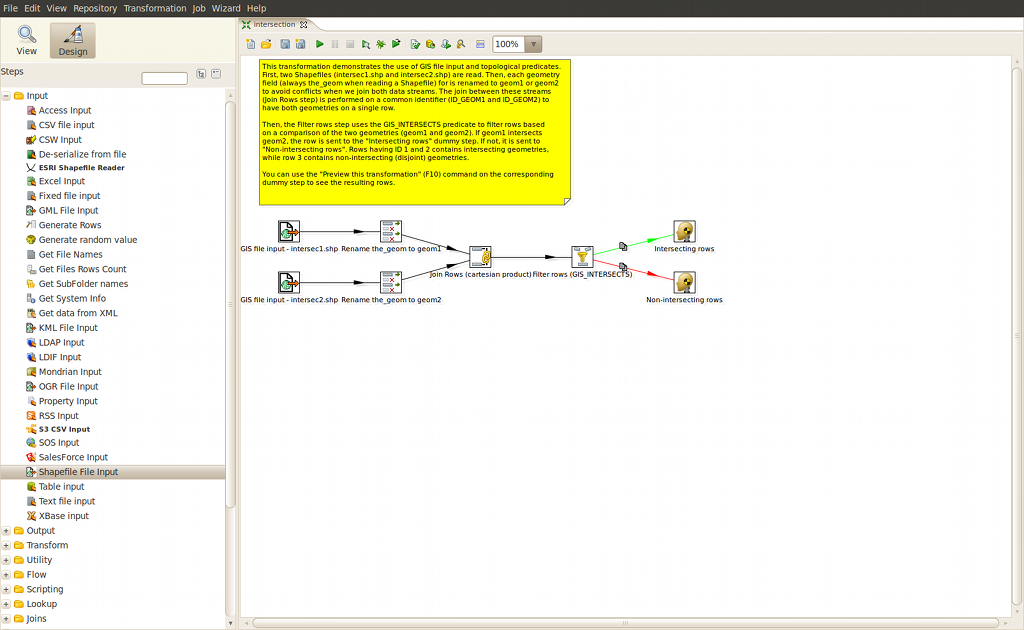
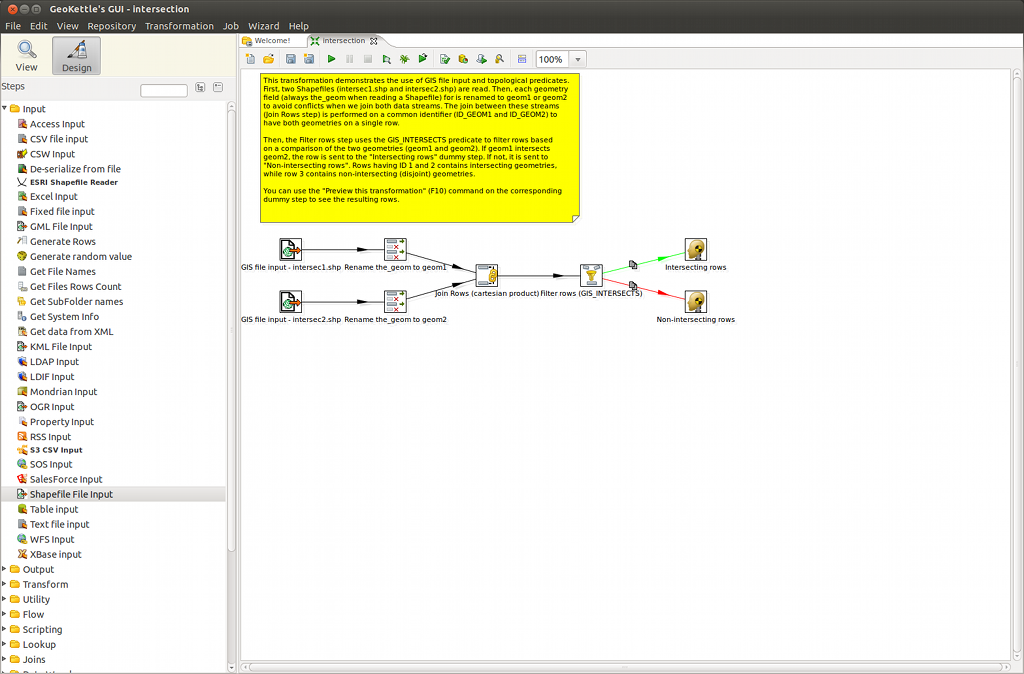
Have updated the geokettle quickstart and some images in order to stick to the changes that occured in the GeoKettle 2.5 GUI and in the support websites.
git-svn-id: http://svn.osgeo.org/osgeo/livedvd/gisvm/trunk@10557 7da46fd8-bd2a-0410-a152-cf9810cf5b10

Changed region(s): [[0.0, 0.0, 1.0, 1.0]]

diff --git a/doc/en/quickstart/geokettle_quickstart.rst b/doc/en/quickstart/geokettle_quickstart.rst
@@ -2,7 +2,7 @@
 :Author: Thierry Badard
 :Reviewer: Sergio Baños Calvo
 :Reviewer: Cameron Shorter, LISAsoft
-:Version: osgeo-live6.5
+:Version: osgeo-live7.0draft
 :License: Creative Commons Attribution-ShareAlike 3.0 Unported  (CC BY-SA 3.0)
 
 .. image:: ../../images/project_logos/logo-geokettle.png
@@ -134,4 +134,4 @@ Here are some additional challenges for you to try:
 What Next?
 ================================================================================
 
-Take a look at the GeoKettle user and developer documentation and tutorials available on the `wiki <http://wiki.spatialytics.org>`_ of the project. Do not hesitate also to ask for help on the Spatialytics `forum <http://www.spatialytics.com/forum>`_.
+Take a look at the documentation available on the Spatialytics `documentation center <http://docs.spatialytics.com/doku.php?id=en:spatialytics_etl>`_. Do not hesitate also to ask for help on the Spatialytics `forum <http://forum.spatialytics.com>`_.
